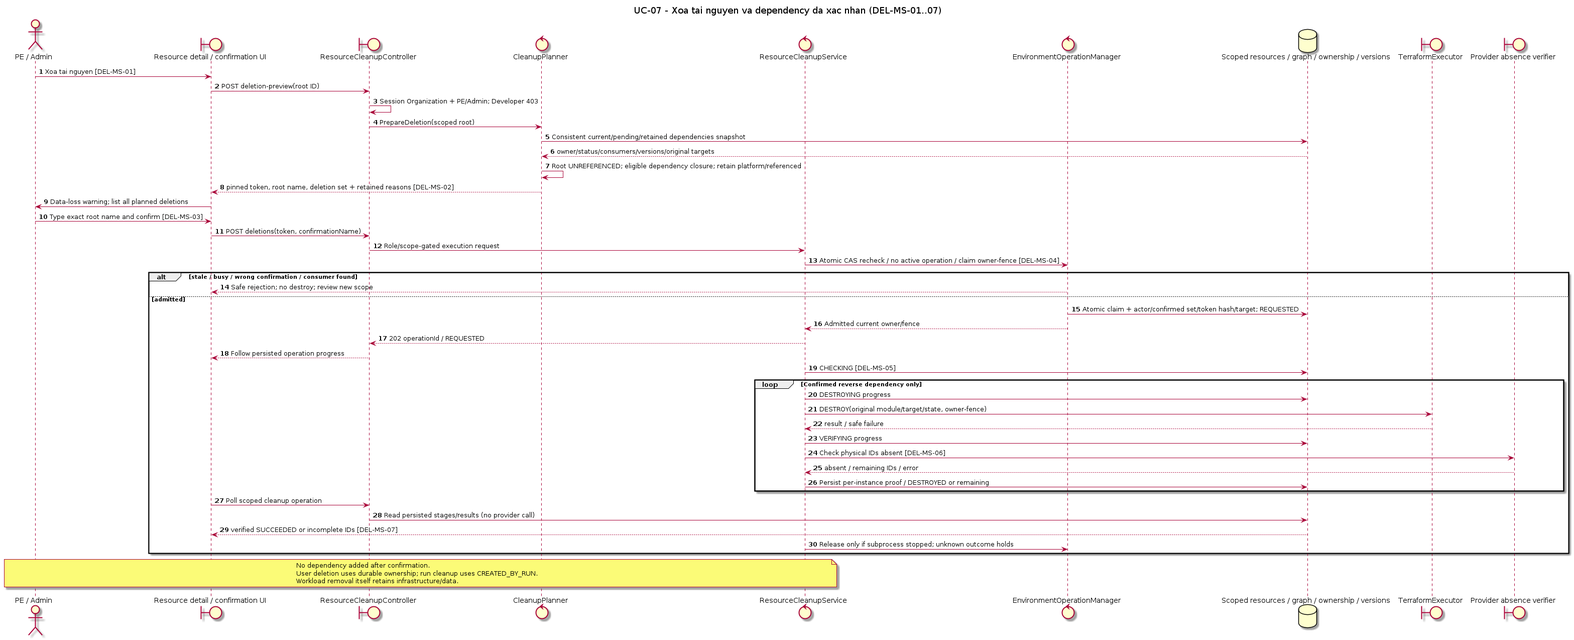
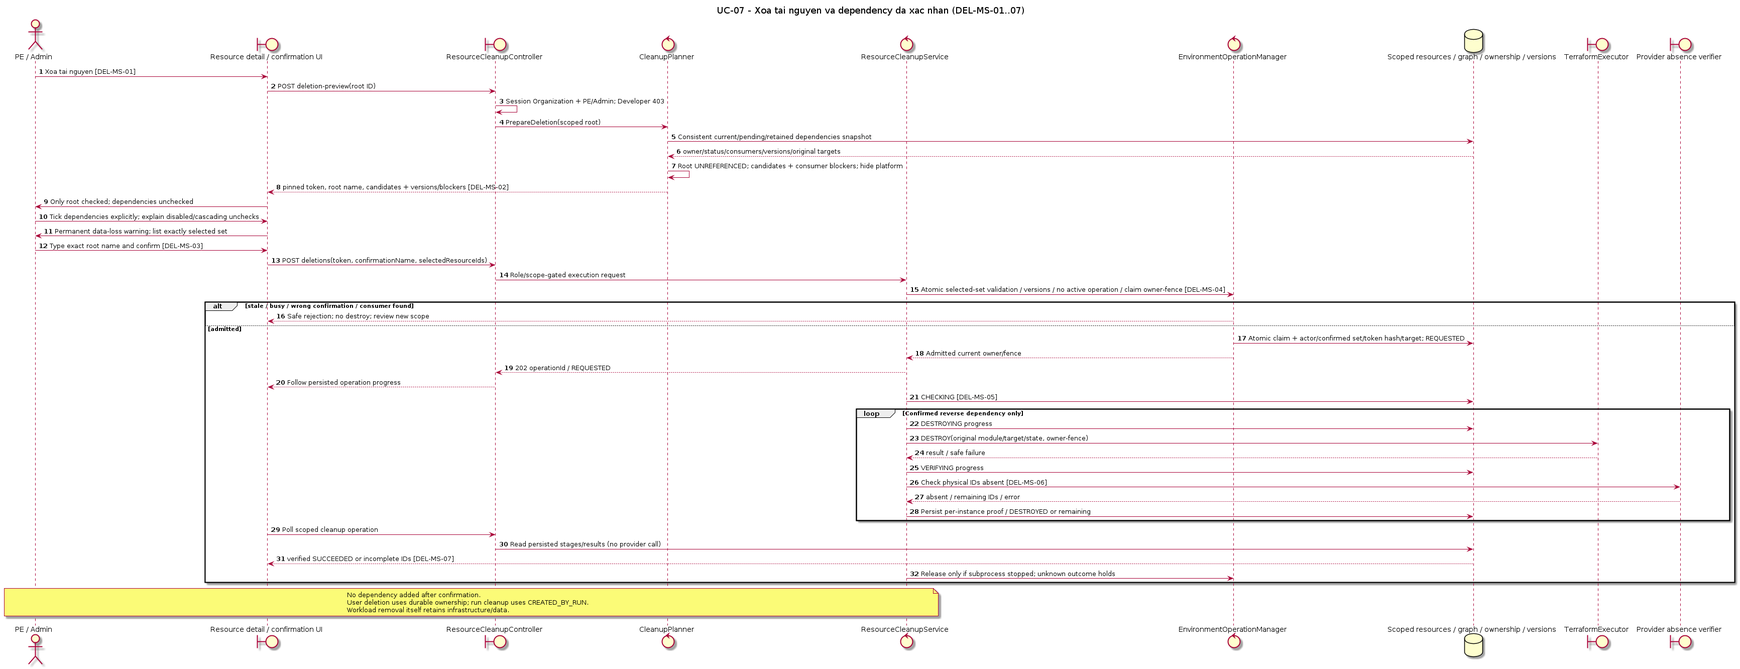
docs: use explicit resource deletion selection and map M04 coverage

diff --git a/orchestrator_docs/usecase/UC-07/specification.md b/orchestrator_docs/usecase/UC-07/specification.md
@@ -137,8 +137,8 @@ runtime/current set hoặc Environment khác khi lưu.
 - **V2-03:** PE/Admin có nút Xóa tài nguyên tại trang chi tiết tài nguyên trong
   Environment. Root phải UNREFERENCED, không còn consumer và không có
   Environment operation đang chạy. Developer không có quyền, kể cả gọi API.
-  Hộp thoại cảnh báo mất dữ liệu, yêu cầu gõ tên root và liệt kê root cùng
-  dependency đủ điều kiện. Backend kiểm lại snapshot/ownership/consumer/
+  Hộp thoại cảnh báo mất dữ liệu, yêu cầu gõ tên root và liệt kê đúng
+  các tài nguyên người dùng đã tick. Backend kiểm lại snapshot/ownership/consumer/
   dependency trong giao dịch nhận operation; không xóa ngoài tập đã xác nhận.
 - **V2-04:** Failed provision không cấp quyền xóa toàn bộ dependency. Cleanup
   tự động của run chỉ xóa CREATED_BY_RUN được giao; PREEXISTING/UPDATED_BY_RUN
@@ -154,12 +154,15 @@ runtime/current set hoặc Environment khác khi lưu.
   Thiếu bằng chứng là chưa đủ điều kiện, không đoán quyền.
 
 1. **DEL-MS-01:** Người dùng mở resource detail và chọn Xóa tài nguyên.
-2. **DEL-MS-02:** Hệ thống lập snapshot phạm vi root và dependency có thể xóa,
-   liệt kê cả dependency giữ lại và lý do; chưa gọi provider hoặc nhận khóa dài.
-3. **DEL-MS-03:** Hộp thoại cảnh báo mất dữ liệu; người dùng gõ đúng tên root
-   hiển thị trên trang và xác nhận toàn bộ tập xóa.
-4. **DEL-MS-04:** Backend kiểm token/versions, quyền, trạng thái, consumer và
-   operation trống trong một giao dịch, nhận operation rồi ghi REQUESTED.
+2. **DEL-MS-02:** Hệ thống hiển thị root và các dependency trong cùng
+   Environment/generation. Chỉ root được tick mặc định; dependency để trống.
+   Không hiển thị tài nguyên platform như k8s-4f hoặc Connection. Chưa gọi
+   provider hoặc nhận khóa dài.
+3. **DEL-MS-03:** Người dùng tự tick dependency muốn xóa thêm. Ô không đủ
+   điều kiện bị khóa và nêu lý do. Hộp xác nhận liệt kê đúng các mục đã tick,
+   cảnh báo mất dữ liệu vĩnh viễn; người dùng gõ đúng tên root để xác nhận.
+4. **DEL-MS-04:** Backend kiểm toàn bộ tập đã tick: token/versions, quyền,
+   UNREFERENCED, ownership, consumer và operation trống trong một giao dịch, nhận operation rồi ghi REQUESTED.
    Có thay đổi thì chặn trước destroy và yêu cầu review phạm vi mới.
 5. **DEL-MS-05:** CHECKING kiểm ownership/state/target; DESTROYING khóa state
    và xóa consumer trước provider theo tập đã xác nhận.
@@ -168,11 +171,15 @@ runtime/current set hoặc Environment khác khi lưu.
 7. **DEL-MS-07:** UI hiển thị thành công đã xác minh hoặc lỗi/ID còn lại.
    Operation chưa sạch không được báo thành công; tiến trình chưa rõ thì giữ hold.
 
-- **DEL-BR-01:** Dependency chỉ đưa vào tập xóa nếu cùng ownership scope, không
-  thuộc platform, UNREFERENCED và mọi consumer còn tồn tại đều nằm trong tập
-  xóa. Dependency còn dùng ngoài tập hoặc không đủ bằng chứng được giữ.
-  Root có consumer ngoài tập thì toàn bộ request bị từ chối. Không tự cascade
-  qua Environment/generation khác hoặc thêm dependency sau xác nhận.
+- **DEL-BR-01:** Chỉ xóa tập người dùng đã tick, bắt buộc có root. Mọi mục
+  phải cùng Environment/generation, thuộc quyền sở hữu, UNREFERENCED và không
+  thuộc platform. Chỉ cho tick dependency khi mọi consumer còn tồn tại nằm
+  trong tập đã tick; kể cả Workload, current graph và pending desired graph.
+  Khi bỏ tick một mục, tự bỏ tick các mục đang chọn trở nên không hợp lệ
+  vì có consumer ngoài tập; lặp đến khi tập hợp lệ và giải thích các thay đổi.
+  Không tự tick thêm bất kỳ mục nào. Backend kiểm lại toàn bộ tập trong giao
+  dịch nhận operation; tập không hợp lệ bị từ chối toàn bộ, không xóa một phần
+  hoặc tự thêm dependency. Các mục không tick phải được giữ nguyên.
 - **DEL-BR-02:** Tên xác nhận do server lấy từ persisted descriptor, cũng là
   tên kỹ thuật hiển thị trên resource detail. So khớp chính xác; không trim/
   case-fold hoặc tin tên do client chọn. Xác nhận cũ không dùng lại sau scope/

diff --git a/orchestrator_docs/architecture/contracts/operation-contracts.md b/orchestrator_docs/architecture/contracts/operation-contracts.md
@@ -548,19 +548,21 @@ read data for Developer/PE. Full protocol/security rules and tests:
 UNREFERENCED, không consumer và Environment operation trống theo UC-07 DEL-*.
 Developer 403 cả preview/execute. Root platform hoặc ngoài ownership không xóa.
 
-PrepareDeletion đọc một snapshot root/current + pending/retained graphs và
-versions; tính dependency closure cùng scope: chỉ dependency UNREFERENCED,
-non-platform, mọi consumer nằm trong tập xóa. Trả root + eligible dependencies,
-retained reasons, server confirmationName từ root descriptor, token/expiry.
-Token pin root/IDs/resource versions/Environment/current-set/draft versions,
-original targets/generation và actor; không provider/secret calls hoặc side effects.
-Không thêm resource ngoài closure đã hiển thị sau khi xác nhận.
+PrepareDeletion đọc snapshot root/current + pending/retained graphs và versions.
+Trả root và các dependency candidates cùng Environment/generation, các consumer
+blockers và ownership/status/versions; loại platform khỏi danh sách. Token pin
+actor/root/candidate IDs/versions, Environment/current-set/draft và original
+targets/generation; không provider/secret calls hoặc side effects. UI chỉ tick
+root mặc định; chọn/bỏ chọn tuân UC-07 DEL-BR-01.
 
-Execute nhận `{token,confirmationName}`; so exact tên server, không trim/case-fold.
-Trong một transaction, kiểm role/scope/token/versions/status/consumers/no active
-operation, nhận Environment owner/fence và persist actor/confirmed scope/token
-hash/REQUESTED. Snapshot đổi trả stale/busy/refused trước provider call.
-Cùng token/actor đã nhận trả operation cũ, không tạo request destroy thứ hai.
+Execute nhận `{token,confirmationName,selectedResourceIds}`. Selected set bắt
+buộc có root, không trùng ID và chỉ gồm candidates đã pin. So exact tên server,
+không trim/case-fold. Trong một transaction kiểm role/scope/token/versions,
+UNREFERENCED/ownership và consumers của mọi mục, no active operation; nhận
+Environment owner/fence và persist đúng selected set, actor/token hash/REQUESTED.
+Không thêm dependency. Tập không hợp lệ bị từ chối toàn bộ trước provider call.
+Snapshot đổi trả stale/busy/refused. Replay cùng token/actor và cùng selected set
+trả operation cũ; đổi selected set sau admission trả 409 STALE_PREVIEW.
 
 CHECKING kiểm original module/target/state/ownership. DESTROYING khóa state và
 xóa consumer trước provider. Consumer fail thì giữ provider còn cần; chỉ tiếp
@@ -582,8 +584,8 @@ Prefix `/api/v1/applications/{app}/environments/{env}`; phiên lấy Organizatio
 | Operation | Route | Kết quả |
 |---|---|---|
 | Resource detail (OC-11/UC-09) | GET `/resources/{resourceId}` | 200 safe detail/eligibility/descriptor; không provider refresh. |
-| PrepareDeletion | POST `/resources/{resourceId}/deletion-preview` với `{}` | 200 token, confirmationName, delete set và retained reasons/versions/expiry. |
-| CleanupResources | POST `/resources/{resourceId}/deletions` với `{token,confirmationName}` | 202 operationId/REQUESTED; token đã nhận trả operation cũ. |
+| PrepareDeletion | POST `/resources/{resourceId}/deletion-preview` với `{}` | 200 token, confirmationName, candidates và consumer blockers/versions/expiry. |
+| CleanupResources | POST `/resources/{resourceId}/deletions` với `{token,confirmationName,selectedResourceIds}` | 202 operationId/REQUESTED; token đã nhận trả operation cũ. |
 | Query operation (OC-11/UC-09) | GET `/resource-cleanups/{operationId}` | 200 scoped persisted stages/confirmed IDs/absence/remaining IDs. |
 
 Bodies bounded/known-field; resource IDs được resolve theo scope. Missing

diff --git a/orchestrator_docs/iterations/M02-usecase-completion/I06-10-uc01-04-management/README.md b/orchestrator_docs/iterations/M02-usecase-completion/I06-10-uc01-04-management/README.md
@@ -54,3 +54,26 @@ Người dùng ưu tiên [M04](../../M04-terraform-v2/README.md) cho Terraform v
 Record này chưa hoàn thành, chỉ deferred; status/handoff cũ ở a897d6b/3367f7e.
 AWS credential decision đã chốt ADR-009/014 và được implement trong M04,
 không dùng ghi chú “decision pending” phía trên làm blocker hiện hành.
+
+## Đối chiếu công việc còn dở với M04
+
+M04 chỉ thay phần có bằng chứng tương ứng; không tự đóng I06-10/IMP-002.
+IMP-002 ghi nhận ID/reserved-key, Driver Inputs boundary và UC-16 params
+validation đã verified 2026-10-02; không mở lại như quyết định chưa chốt.
+
+| Hạng mục / exit criterion I06-10 | Task M04 làm thay | Còn lại sau M04 |
+|---|---|---|
+| UC-02 đăng ký Resource Type/schema, validation trước persistence | I04-02/07 dùng và kiểm Resource Type contract; I04-10 kiểm integration | Luồng đăng ký type tùy ý và mọi MS/negative case ngoài type Redis/PostgreSQL/infra v2 vẫn cần gap audit. |
+| UC-03 Definition/criteria/contracts; ít nhất một criterion | I04-02 registry, I04-07 Definition form, I04-10 matching | Các nhánh đăng ký Definition ngoài Terraform v2 chưa có evidence phải làm tiếp. Không đóng bằng kiểm thử seed. |
+| UC-04 AWS Connection, opaque secret refs | I04-06 nhập key/Vault/verification, I04-10 binding | Credential rotation và các mục vốn ngoài scope không đưa vào M04. |
+| UC-04 Kubernetes Connection registration/verification | I04-03/04 binding và module, I04-10/11 dùng Connection k8s-4f thật | Audit và hoàn thiện mọi trạng thái/negative case đăng ký Kubernetes chưa được test M04 bao phủ. |
+| Management application services/repositories/API/UI/tests | I04-01 persistence, I04-02/06/07 catalog/Connection/UI, I04-10 integration | Management paths ngoài phạm vi v2; giữ regression UC-01 I00-00 và ID/reserved-key đã verified 2026-10-02. |
+| Ba happy paths qua API/UI; dữ liệu dùng được không restart/seed edit | I04-06/07/10 và UI-only I04-11/12 cho Definition/Connection | Resource Type mới tùy ý chưa có UI evidence phải kiểm sau M04; giữ no-restart/reopen regression hiện có. |
+| Invalid schemas/criteria/contracts/connections bị chặn trước persistence | I04-02/06/07 unit/API tests, I04-10 PostgreSQL thật; E01 ở I04-11 | Các UC-02..04 negative cases còn lại theo gap matrix MS/BR. |
+| Secret value không vào DB/state/API/logs | I04-01 encryption; I04-03/06 Vault/bindings/redaction, I04-10 tests | Terraform state ciphertext được phép chứa secret theo ADR-014; không coi ciphertext là plaintext leak. Luồng management ngoài v2 vẫn cần audit. |
+| Backend/frontend validation pass | Tất cả task M04 theo scope, tổng hợp I04-10/11/12 | Chạy lại checks khi làm nốt management gaps. |
+| Xóa IMP-002 khi tất cả gaps đã giao | I04-10/12 cung cấp evidence cho phần M04 đã hoàn thành | Chỉ đóng IMP-002/I06-10 sau đối chiếu đầy đủ UC-02..04 và hoàn tất các dòng còn lại; không đóng chỉ vì M04 đạt. |
+
+Sau M04, bước đầu của I06-10 là cập nhật gap matrix từng MS/BR với code/test và
+verification M04, rồi tiếp tục các dòng chưa có bằng chứng. Quyết định AWS
+credential đã chốt, không còn là blocker. Lịch sử safe slice giữ nguyên.

diff --git a/orchestrator_docs/iterations/M04-terraform-v2/README.md b/orchestrator_docs/iterations/M04-terraform-v2/README.md
@@ -33,8 +33,8 @@ Cleanup tài nguyên đã tạo luôn tiếp tục khi cần, không để chờ
 
 | Iteration | Phạm vi | Chặng | Trạng thái |
 |---|---|---|---|
-| I04-00 | [Duyệt tài liệu A–D và plan M04](I04-00-design-review/README.md) | 1 | Chờ duyệt tài liệu |
-| I04-01 | [State backend, schema và ownership graph](I04-01-state-backend/README.md) | 2 | Chưa bắt đầu |
+| I04-00 | [Duyệt tài liệu A–D và plan M04](I04-00-design-review/README.md) | 1 | Đã duyệt, sửa đổi selected-set trong lượt này |
+| I04-01 | [State backend, schema và ownership graph](I04-01-state-backend/README.md) | 2 | Đang khởi động |
 | I04-02 | [Registry module bất biến](I04-02-module-registry/README.md) | 2 | Chưa bắt đầu |
 | I04-03 | [Executor tạo, cập nhật và xóa](I04-03-terraform-executor/README.md) | 2 | Chưa bắt đầu |
 | I04-04 | [Module namespace, Redis và PostgreSQL](I04-04-kubernetes-modules/README.md) | 2 | Chưa bắt đầu |
@@ -51,8 +51,9 @@ Mỗi charter link sources, criteria và checks cụ thể; WORK_ITEMS chỉ là
 Dependencies triển khai: schema/state -> registry -> executor -> modules ->
 Connection/catalog/Workload/renderer -> deletion/app Redis -> integration ->
 k8s-4f -> approval -> AWS. Không bỏ task hoặc đổi adapter để rút acceptance.
-I04-00 là iteration current khi chờ gate 1; các task code deferred tới khi được
-phép. M02/I06-10 được đưa về deferred, chưa tuyên bố milestone cũ hoàn thành.
+I04-00 đã được người dùng duyệt sau sửa selected-set và đối chiếu I06-10.
+I04-01 là iteration current; các task sau chưa bắt đầu. M02/I06-10 deferred,
+không coi milestone cũ hoàn thành; xem [coverage còn lại](../M02-usecase-completion/I06-10-uc01-04-management/README.md#đối-chiếu-công-việc-còn-dở-với-m04).
 
 ## Validation và acceptance
 
@@ -84,8 +85,6 @@ deferred; minimal state/locking/unknown-outcome hold và cleanup không hoãn.
 
 ## Current handoff
 
-Chặng 1: A–D đã được chuẩn bị và validated; chưa code/test mutation/live
-scenario của M04. [Verification](../../verification/2026-10-13-terraform-v2-reconciliation.md)
-ghi docs checks và [reconciliation](../../implementation/v2-rule-reconciliation.md)
-ghi ID/destination/historical references. Chờ người dùng review tài liệu/plan.
-Chặng 2 chỉ bắt đầu sau người dùng duyệt bộ tài liệu này.
+Người dùng duyệt chặng 1 sau sửa luồng checkbox và bảng I06-10 coverage.
+Khởi động chặng 2 từ I04-01 qua Claude/tmux; chưa tuyên bố code/checks/live đạt.
+Điểm dừng tiếp theo là video V2-A01 và dự toán AWS trước AWS provision.

diff --git a/orchestrator_docs/traceability/matrix.md b/orchestrator_docs/traceability/matrix.md
@@ -522,7 +522,7 @@ fixtures/video để giả bằng chứng mới. Các tests/scenarios dưới đ
 | UC-03 BR-02/15/21; UC-05 MS-06/BR-04/09..11/V2-04; UC-06 MS-09/11/BR-09/17..20 | OC-06/07/08/17; planner/preflight/score-k8s | required renderer both profiles, no match/tie/fallback, stable module/provider/state/target pins, stale/no-secret projection, non-destructive update | I04-02/03/07/10 |
 | UC-08 MS-02/05/06, BR-02/03/05, V2-04/06/07; UC-06 V2-05 | OC-10/18; state/instance/attempt ports, UC-08 sequence/VOPC, ERD | real PostgreSQL ciphertext/reopen/rollback, serial replay/lineage rejection, two-owner lock/fence race, no timeout unlock, stable names/password; no duplicate unknown CREATE | I04-01/03/10 |
 | UC-07 BR-03/VAR-02/V2-02/04; UC-08 BR-05 | OC-09/19; retained resource/cleanup engine and original targets | no destroy on Workload remove, shared conflict/reference preservation; test run rejects preexisting/updated/platform, verified reverse graph destroy | I04-03/08/11 |
-| UC-07 V2-03, DEL-PRE-01/02, DEL-MS-01..04, DEL-BR-01/02 | OC-19 PrepareDeletion/admission; UC-07 sequence-resource-delete/VOPC/UI | PE/Admin vs Developer, scope/consumer/UNREFERENCED/busy/exact name, eligible cascade/retained reasons, token versions/actor replay; no provider call on stale/refused | I04-01/08/11 |
+| UC-07 V2-03, DEL-PRE-01/02, DEL-MS-01..04, DEL-BR-01/02 | OC-19 PrepareDeletion/admission; UC-07 sequence-resource-delete/VOPC/UI | PE/Admin vs Developer, scope/consumer/UNREFERENCED/busy/exact name, root-only default, explicit multi-selection, disabled consumer blockers/cascading unchecks, atomic whole-set refusal, unchecked items preserved, token versions/actor replay; no provider call on stale/refused | I04-01/08/11 |
 | UC-07 DEL-MS-05..07, DEL-BR-03/DEL-POST-01; UC-09 RES-01..03, BR-05/07 | OC-19 execution + OC-11 detail/progress; UC-08 cleanup sequence | original state/module/target, resource dependency edges, safe stage/absence/remaining IDs; failed consumer retains provider, immutable history; A01 real UI delete proof | I04-03/08/11 |
 | UC-16 MS-03/BR-07/11/14/V2-02/03; UC-05 BR-10 | OC-16/17; Workload editor and UC-03/05/16 UI artifacts | Type params/class/shared IDs, advanced/import roundtrip, metadata/stale guards, no module selector/provider credential in Workload; E01 no-create | I04-07/10/11 |
 | UC-06 V2-06; runbook V2-A01/A02/A03/E01/E02 | Console form -> Terraform -> binding -> score-k8s -> delivery -> app UI | real full job/completion/reload + Redis hit/miss/refill and PostgreSQL result, headed video/phases/assertions; UI deletion A01; independent cleanup/absence proof | I04-09/10/11/12 |

diff --git a/orchestrator_docs/operations/terraform-v2-acceptance.md b/orchestrator_docs/operations/terraform-v2-acceptance.md
@@ -128,12 +128,16 @@ Sau khi job/cache assertions đạt, gỡ cả frontend/backend/worker qua luồ
 pending changes -> Preview -> Deploy để không còn Workload/Service consumer.
 Chứng minh Redis/PostgreSQL vẫn tồn tại và được đánh dấu UNREFERENCED.
 Đăng nhập PE/Admin qua UI, mở resource detail trong Environment; Developer
-không có nút Xóa. Bấm Xóa tài nguyên, review root + dependency đủ điều kiện
-(trong scope) và dependency giữ lại, cảnh báo mất dữ liệu, gõ root name rồi
-xác nhận. Quay progress REQUESTED/CHECKING/DESTROYING/VERIFYING và verified
-absence; thực hiện cho Redis và PostgreSQL nếu không cùng một closure.
-Assertions chứng minh retained/platform resources ngoài confirmed set nguyên
-vẹn; script dọn namespace/infra test còn lại sau bước UI. Cancellation/name/
+không có nút Xóa. Bấm Xóa tài nguyên; assert chỉ root được tick mặc định
+và platform không xuất hiện. Chọn thêm ít nhất một dependency hợp lệ trong
+run để chứng minh chọn nhiều mục; các consumer phải được xử lý theo DEL-BR-01.
+Giữ ít nhất một tài nguyên thuộc danh sách không tick và xác minh nó vẫn còn
+sau operation. Chuẩn bị graph test có các mục đó trước run, không bỏ assertion
+nếu fixture không đủ. Review đúng selected set, cảnh báo mất dữ liệu vĩnh viễn,
+gõ root name rồi xác nhận. Quay REQUESTED/CHECKING/DESTROYING/VERIFYING và
+verified absence cho từng mục đã chọn. Xóa các root còn lại bằng operation
+riêng nếu cần. Assertions chứng minh unchecked/retained/platform resources
+ngoài confirmed set nguyên vẹn; script dọn namespace/infra test còn lại sau bước UI. Cancellation/name/
 role/stale/consumer races có code tests, không mở thêm live exception scenario.
 Delete UI fail thì A01 chưa đạt dù safety net dọn thành công; giữ failure video.
 

diff --git a/orchestrator_docs/usecase/UC-07/ui/api-mapping.md b/orchestrator_docs/usecase/UC-07/ui/api-mapping.md
@@ -53,13 +53,13 @@ resource instance thuộc scope; Organization/role lấy từ session.
 
 | UI operation | Method/path suffix | Request / result |
 |---|---|---|
-| Review phạm vi xóa | `POST /resources/{resourceId}/deletion-preview` | `{}`; 200 với token, confirmationName, root + dependencies đủ điều kiện, retained reasons, versions/expiry. Chỉ đọc metadata; không provider/secret call. |
-| Xác nhận xóa | `POST /resources/{resourceId}/deletions` | `{token,confirmationName}`; 202 với operationId và REQUESTED sau atomic admission. Không nhận caller-generated resource list/run quyền xóa. |
+| Review phạm vi xóa | `POST /resources/{resourceId}/deletion-preview` | `{}`; 200 với token, confirmationName, root + dependency candidates, consumer blockers, versions/expiry. Chỉ đọc metadata; không provider/secret call. |
+| Xác nhận xóa | `POST /resources/{resourceId}/deletions` | `{token,confirmationName,selectedResourceIds}`; 202 với operationId và REQUESTED sau atomic admission. Danh sách IDs bắt buộc có root, thuộc candidates trong token; server kiểm lại toàn bộ tập, không tự thêm mục hoặc nhận quyền run từ caller. |
 | Theo dõi | `GET /resource-cleanups/{operationId}` | 200 safe persisted stages, confirmed IDs, per-instance verification/remaining IDs. |
 
 Preview/execute chỉ PE/Admin; 401 thiếu session, 403 Developer, 404 foreign scope,
 400 payload/tên xác nhận sai, 409 stale/busy/ineligible, 503 thiếu state/module/
-credential service. Token pin root/scope/closure/versions; server kiểm exact
+credential service. Token pin root/scope/candidates/versions; server kiểm exact
 confirmationName từ descriptor, không echo tên sai trong error. Execute lặp
 cùng token của cùng actor trả operation đã nhận, không tạo destroy thứ hai.
 Nếu graph/consumer/version đổi thì review lại trước mọi provider call.

diff --git a/orchestrator_docs/usecase/UC-07/realization.md b/orchestrator_docs/usecase/UC-07/realization.md
@@ -101,10 +101,12 @@ EKS kubeconfig paths remain supported. Implementation evidence is tracked in cur
 ResourceDetailController/ResourceQueryService đọc scoped resource và eligibility
 cho UC-09. ResourceCleanupController kiểm session Organization + PE/Admin;
 Developer bị từ chối trước cả lập delete plan hoặc nhận operation.
-CleanupPlanner tính root/dependency closure và retained reasons từ current/
+CleanupPlanner đọc danh sách root/dependency và consumer blockers từ current/
 pending graphs + persisted dependency/ownership snapshots; phát token pin
-root descriptor, tập xóa/versions, current/draft versions và target generation.
-UI hiện scope, cảnh báo mất dữ liệu và tên cần gõ. Token/typed name không cấp
+root descriptor, candidate IDs/versions, current/draft versions và target generation.
+UI chỉ tick root mặc định, cho người dùng chọn dependency theo DEL-BR-01 và
+hiện đúng tập đã tick trong xác nhận. Backend kiểm selected set trong admission;
+không mở rộng tập xóa. UI hiện scope, cảnh báo mất dữ liệu và tên cần gõ. Token/typed name không cấp
 quyền nếu trạng thái đã đổi sau khi hiển thị hộp thoại.
 
 ResourceCleanupService kiểm snapshot/role/UNREFERENCED/consumers dưới
@@ -123,6 +125,6 @@ script safety net không giả chữ ký xác nhận UI. Xem
 [cleanup engine](../UC-08/sequence-cleanup.puml) và OC-19.
 
 Tests: Developer 403, foreign scope 404, stale/busy/not-unreferenced/consumer
-rejection trước provider calls, exact typed name, pinned cascade/retained
+rejection trước provider calls, exact typed name, pinned selected set/retained
 dependencies, duplicate token idempotency, lock/fencing và safe partial result.
 V2-A01 chứng minh xóa thật qua headed UI; các ngoại lệ role/race có tests riêng.

diff --git a/orchestrator_docs/architecture/database/schema.md b/orchestrator_docs/architecture/database/schema.md
@@ -594,15 +594,16 @@ safe stage/attempt/status references, never raw resolved inputs or CLI artifacts
 
 `environment_operations.kind = RESOURCE_CLEANUP` lưu:
 `authorization_mode` (`USER_CONFIRMED` hoặc `RUN_CLEANUP`), `actor_ref`,
-`root_resource_instance_id`, `confirmed_scope jsonb` (root/dependency IDs,
+`root_resource_instance_id`, `confirmed_scope jsonb` (đúng selectedResourceIds đã được kiểm, bắt buộc có root;
 versions, original target/module/state refs và retained reasons),
 `deletion_request_hash text nullable`, `confirmation_name text` (server descriptor),
 `scope_snapshot jsonb` (Environment/current/draft/resource versions), run ID
 nếu là test cleanup, owner/fence và kết quả từng instance từ attempts.
 Unique deletion_request_hash trong Organization/actor bảo vệ idempotent token
-replay; token plaintext không persist. User confirmation chỉ có quyền trên
+replay; token plaintext không persist. Hash yêu cầu bind cả selected set để
+replay không đổi phạm vi. Candidate snapshot không phải quyền tự thêm mục xóa. User confirmation chỉ có quyền trên
 confirmed set đã pin. Run mode chỉ CREATED_BY_RUN, không dùng user role để
-nâng quyền. Atomic admission kiểm UNREFERENCED/root-consumers/versions/no
+nâng quyền. Atomic admission kiểm toàn bộ selected set: quyền/ownership/UNREFERENCED/consumers/versions/no
 active operation rồi lưu claim + confirmed scope nguyên tử. Không cascade
 FK deletion từ root làm mất dependency/audit trước verification. Operation stages REQUESTED/CHECKING/DESTROYING/VERIFYING; terminal
 SUCCEEDED/FAILED/INTERRUPTED and safe NEEDS_ATTENTION metadata. SUCCEEDED requires

diff --git a/orchestrator_docs/usecase/UC-07/ui/screens.md b/orchestrator_docs/usecase/UC-07/ui/screens.md
@@ -36,12 +36,15 @@ nguyên”; Developer không thấy nút. Root không UNREFERENCED, còn consume
 platform, thiếu metadata hoặc Environment busy thì khóa và nêu lý do.
 
 Khi bấm, tải deletion preview. Hộp thoại có Application/Environment/generation,
-tên kỹ thuật root, danh sách root + dependency sẽ xóa, dependency giữ lại và
-lý do. Cảnh báo **Xóa vĩnh viễn dữ liệu, không thể hoàn tác**; ô “Nhập lại tên
+tên kỹ thuật root và danh sách root/dependency cùng Environment/generation.
+Chỉ root được tick mặc định, dependency để trống; không hiển thị platform.
+Người dùng tự tick thêm; khóa mục có consumer ngoài tập đã tick và nêu lý do.
+Bỏ tick tự bỏ tick các mục trở nên không hợp lệ, kèm giải thích; không tự tick
+thêm. Phần xác nhận chỉ liệt kê đúng các mục đã tick. Cảnh báo **Xóa vĩnh viễn dữ liệu, không thể hoàn tác**; ô “Nhập lại tên
 tài nguyên” phải khớp tên server hiển thị, không suy từ tên người dùng nhập.
 Không gõ đúng hoặc chưa tải/validate scope thì nút xác nhận bị khóa.
 
-Hủy không gọi destroy. Xác nhận gửi pinned token + tên; đổi scope/versions thì
+Hủy không gọi destroy. Xác nhận gửi pinned token + tên + selectedResourceIds; đổi scope/versions thì
 đóng hoặc invalidate hộp thoại, yêu cầu review mới. UI theo dõi operation đã
 nhận qua REQUESTED/CHECKING/DESTROYING/VERIFYING, kết quả từng resource và
 remaining IDs. Success chỉ sau absence verification; không có Undo dữ liệu.

diff --git a/orchestrator_docs/iterations/M04-terraform-v2/I04-08-resource-delete-ui/README.md b/orchestrator_docs/iterations/M04-terraform-v2/I04-08-resource-delete-ui/README.md
@@ -14,7 +14,7 @@ Chặng 2; xem [M04](../README.md). Chưa bắt đầu; không suy status này t
 
 ## Phạm vi
 
-Resource detail/progress read API, PE/Admin delete preview/confirmation/operation; eligible dependency closure, token/versions/idempotency và original-target destroy.
+Resource detail/progress read API, PE/Admin delete preview/confirmation/operation; root-only default checkboxes, explicit selected set, token/versions/idempotency và original-target destroy.
 
 ## Nguồn chuẩn
 
@@ -44,13 +44,13 @@ Module/provider pins, deadline và small sizing ghi trước execution.
 
 ## Acceptance criteria
 
-Developer denied, root UNREFERENCED/no consumer/no busy; exact-name confirmation liệt kê toàn bộ cascade; stale/concurrent consumer thay đổi chặn trước destroy; verified absence/remaining IDs.
+Developer denied, root UNREFERENCED/no consumer/no busy; exact-name confirmation liệt kê đúng mục đã tick; disabled blockers và bỏ tick kéo theo giải thích; stale/concurrent consumer thay đổi chặn trước destroy; verified absence/remaining IDs.
 
 ## Checks
 
 - `cd backend && go test ./... && go build ./...`
 - `cd frontend && npm run typecheck && npm run lint && npm test && npm run build`
-- Real PostgreSQL admission/token replay/closure-version races; headed confirmation/progress video
+- Real PostgreSQL admission/token replay/selected-set/consumer/version races, rejection of whole invalid set and preservation of unchecked items; headed confirmation/progress video
 
 ## Handoff
 
